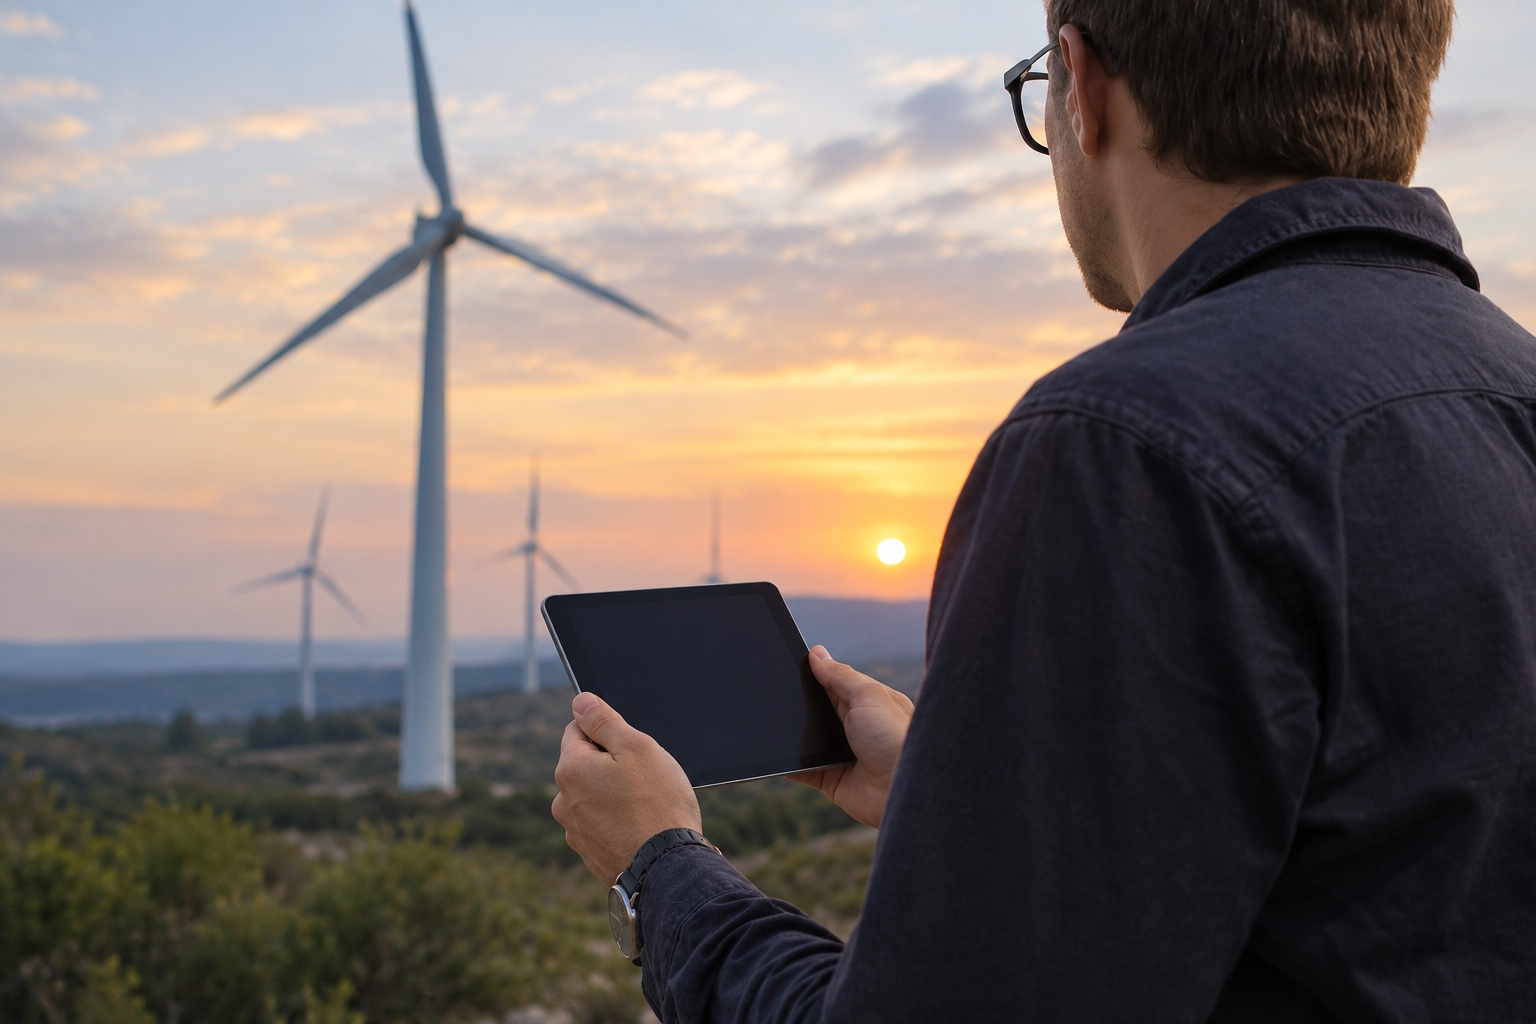
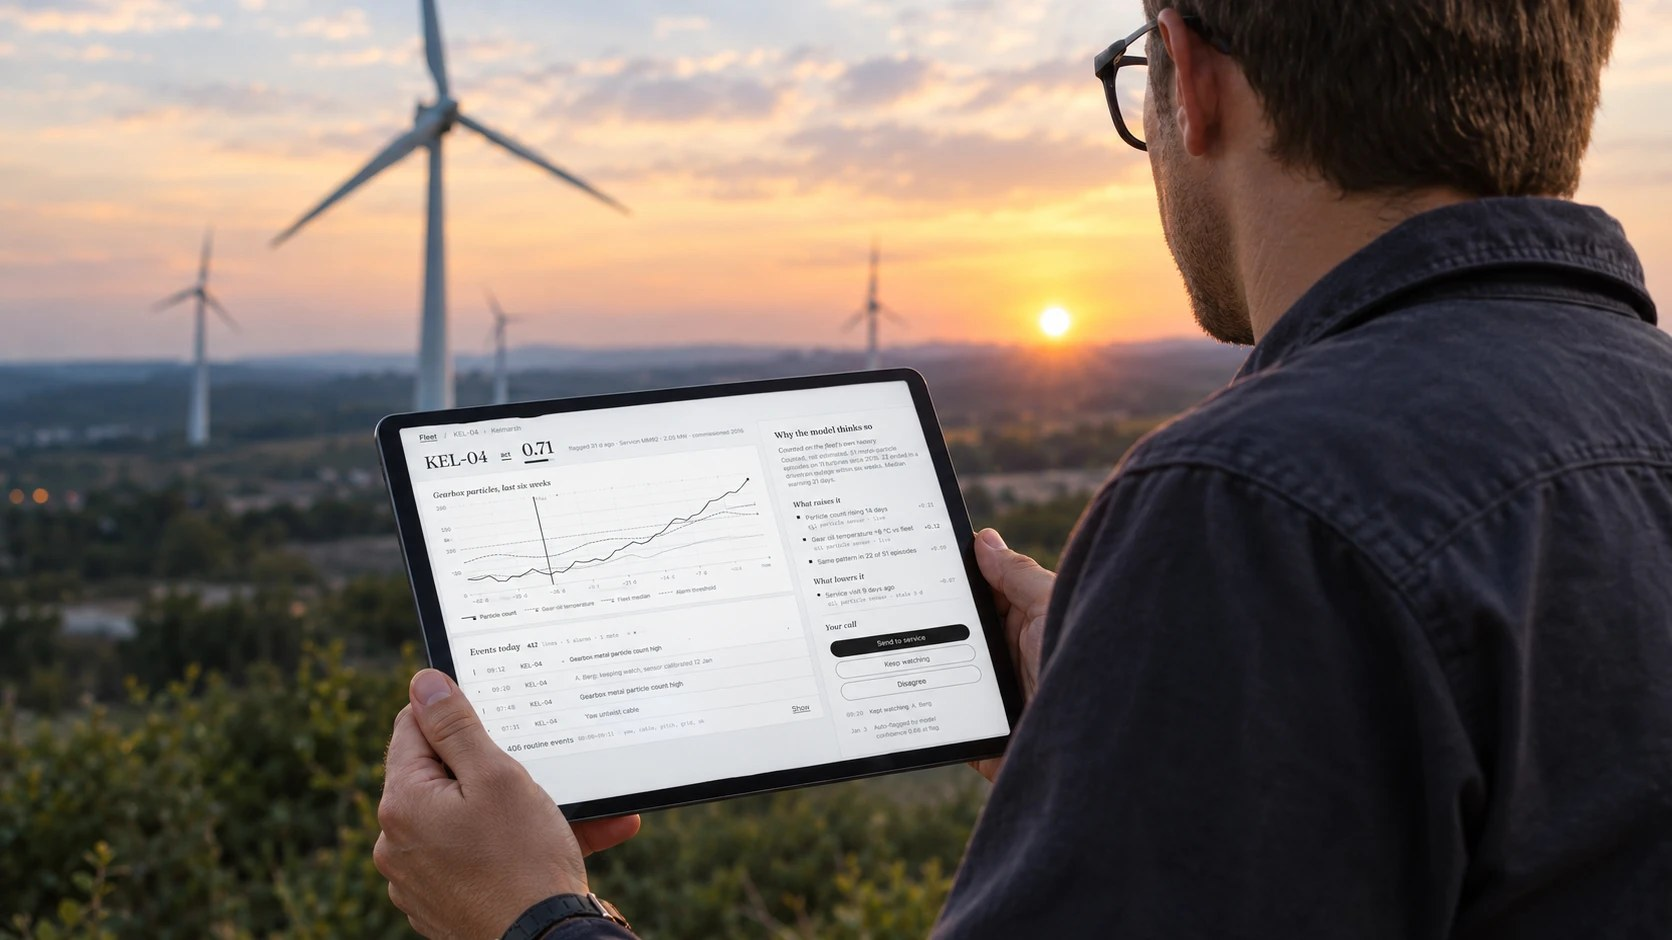
Fleet console: the operator's tablet shows the panel; caption follows, photos cache-busted

diff --git a/fleet-console.html b/fleet-console.html
@@ -475,7 +475,7 @@ footer.foot .next-h em{font-style:italic;color:var(--accent);}
   </div>
 
   <div id="hero"><!--prerendered--><figure class="fig reveal wide">
-      <img src="fleet-console/assets/hero-field.webp" alt="The setting: a turbine field at the end of the day, where the model’s number lands on somebody’s screen. Staged image, not a photograph of the farms in the data." loading="lazy">
+      <img src="fleet-console/assets/hero-field.webp?v=2" alt="The setting: a turbine field at the end of the day, where the model’s number lands on somebody’s screen. Staged image, not a photograph of the farms in the data." loading="lazy">
       <figcaption><span>The setting: a turbine field at the end of the day, where the model’s number lands on somebody’s screen. Staged image, not a photograph of the farms in the data.</span></figcaption>
     </figure><!--/prerendered--></div>
 
@@ -515,7 +515,7 @@ footer.foot .next-h em{font-style:italic;color:var(--accent);}
       <img src="fleet-console/assets/system.webp" alt="The library as the prototype sees it: the 24 colour tokens in both modes, the three densities, the components drawn by the console’s own compiled stylesheet, the same lane at three row heights, and one token followed from a Figma variable to a component." loading="lazy">
       <figcaption><span>The library as the prototype sees it: the 24 colour tokens in both modes, the three densities, the components drawn by the console’s own compiled stylesheet, the same lane at three row heights, and&nbsp;one token followed from a Figma variable to a component.</span></figcaption>
     </figure><figure class="fig reveal wide">
-      <img src="fleet-console/assets/photo-tablet-day.webp" alt="The technician’s side of the same system: a tablet on site, where the service order arrives. Staged image." loading="lazy">
+      <img src="fleet-console/assets/photo-tablet-day.webp?v=2" alt="The technician’s side of the same system: a tablet on site, where the service order arrives. Staged image." loading="lazy">
       <figcaption><span>The technician’s side of the same system: a tablet on site, where the service order arrives. Staged image.</span></figcaption>
     </figure></section><section class="sec" id="unsure"><div class="col">
       <div class="eyebrow"><b>05</b> · When the model is unsure</div>
@@ -535,8 +535,8 @@ footer.foot .next-h em{font-style:italic;color:var(--accent);}
     </figure></section><section class="sec" id="test"><div class="col">
       <div class="eyebrow"><b>08</b> · What I would test</div>
       <h2 class="h">No operator has used this yet. That is the first thing I would change.</h2><p>The honest limit of this project: <strong>it has never met the person it is for.</strong> Everything above is reasoned from real data and&nbsp;real failure histories. That is a better foundation than taste. It is still not the same as watching somebody use it at four in the morning.</p><p>Four questions would go first. <strong>Does anyone press “disagree”?</strong> Or is it a button that reads well in a case study and&nbsp;dies in production, and&nbsp;if it dies, is that because disagreeing feels risky rather than hard? Is the bar beside the number read faster than the number alone, or does it only look considered? Does the word “no signal” stop operators from treating a blank as a zero? And&nbsp;at what confidence does an operator stop watching and&nbsp;send somebody? That threshold belongs to them. The interface should learn it, not set it.</p></div><figure class="fig reveal wide">
-      <img src="fleet-console/assets/photo-tablet-night.webp" alt="After sunset the console switches itself to night mode, on the farm’s own clock. Staged image." loading="lazy">
-      <figcaption><span>After sunset the console switches itself to night mode, on the farm’s own clock. Staged image.</span></figcaption>
+      <img src="fleet-console/assets/photo-tablet-night.webp?v=2" alt="The operator’s panel on a tablet, out where the first test belongs: with the person who has to make the call. Staged image." loading="lazy">
+      <figcaption><span>The operator’s panel on a tablet, out where the first test belongs: with the person who has to make the call. Staged image.</span></figcaption>
     </figure><div class="col"><p class="close">A number nobody can argue with is not advice. It is an order.</p></div></section><!--/prerendered--></article>
 
   <div class="col">
@@ -712,18 +712,18 @@ const T = {
 };
 
 const ASSETS = {
-  hero:{ type:'img', wide:true, src:'fleet-console/assets/hero-field.webp',
+  hero:{ type:'img', wide:true, src:'fleet-console/assets/hero-field.webp?v=2',
     cap:{en:'The setting: a turbine field at the end of the day, where the model’s number lands on somebody’s screen. Staged image, not a photograph of the farms in the data.',
          no:'Stedet: et turbinfelt på slutten av dagen, der modellens tall lander på noens skjerm. Iscenesatt bilde, ikke et fotografi av parkene i dataene.',
          es:'El escenario: un campo de turbinas al final del día, donde el número del modelo aterriza en la pantalla de alguien. Imagen escenificada, no una fotografía de los parques de los datos.'} },
-  tabletDay:{ type:'img', wide:true, src:'fleet-console/assets/photo-tablet-day.webp',
+  tabletDay:{ type:'img', wide:true, src:'fleet-console/assets/photo-tablet-day.webp?v=2',
     cap:{en:'The technician’s side of the same system: a tablet on site, where the service order arrives. Staged image.',
          no:'Teknikerens side av det samme systemet: et nettbrett ute i felt, der serviceordren kommer. Iscenesatt bilde.',
          es:'El lado del técnico del mismo sistema: una tableta a pie de parque, donde llega la orden de servicio. Imagen escenificada.'} },
-  tabletNight:{ type:'img', wide:true, src:'fleet-console/assets/photo-tablet-night.webp',
-    cap:{en:'After sunset the console switches itself to night mode, on the farm’s own clock. Staged image.',
-         no:'Etter solnedgang bytter konsollen selv til nattmodus, på parkens egen klokke. Iscenesatt bilde.',
-         es:'Tras la puesta de sol la consola pasa sola al modo nocturno, con el reloj del propio parque. Imagen escenificada.'} },
+  tabletNight:{ type:'img', wide:true, src:'fleet-console/assets/photo-tablet-night.webp?v=2',
+    cap:{en:'The operator’s panel on a tablet, out where the first test belongs: with the person who has to make the call. Staged image.',
+         no:'Operatørens panel på et nettbrett, der den første testen hører hjemme: hos personen som må ta avgjørelsen. Iscenesatt bilde.',
+         es:'El panel del operador en una tableta, donde toca la primera prueba: con la persona que tiene que decidir. Imagen escenificada.'} },
   fleet:{ type:'img', wide:true, src:'fleet-console/assets/fleet.webp',
     cap:{en:'The fleet as lanes: one turbine per row over the last six weeks, frozen on 10 February 2023, the day Kelmarsh 4 stopped itself. Twenty real machines; every mark is a logged event. Capture of the working prototype.',
          no:'Flåten som baner: én turbin per rad over de siste seks ukene, frosset 10. februar 2023, dagen Kelmarsh 4 stoppet seg selv. Tjue ekte maskiner; hvert merke er en logget hendelse. Skjermbilde fra den fungerende prototypen.',
